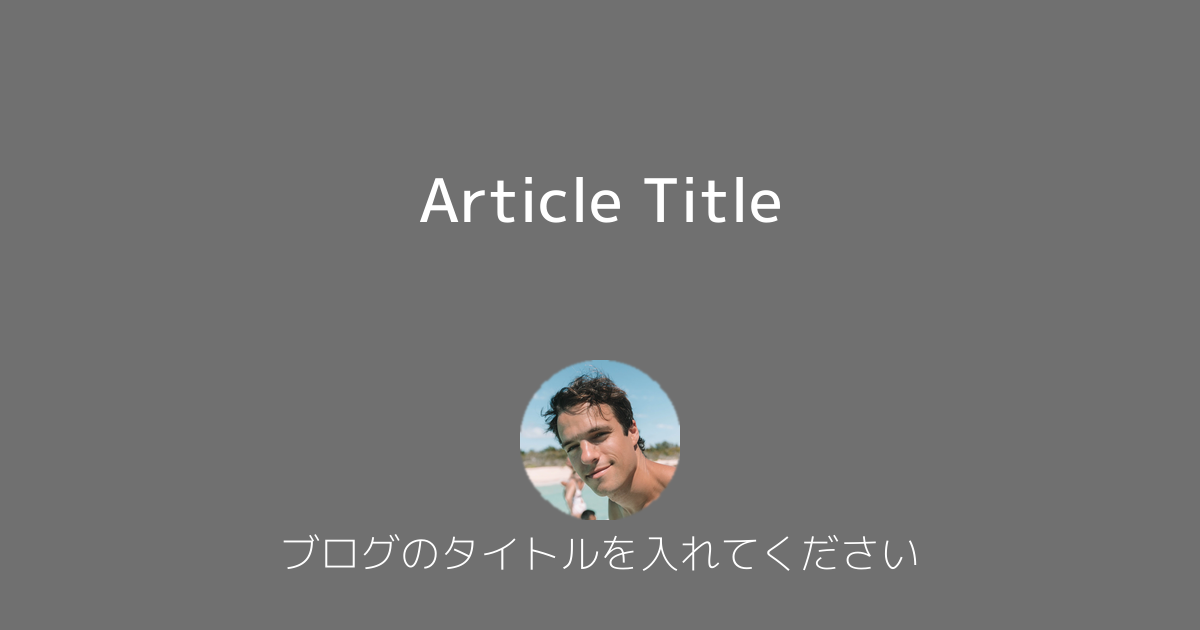
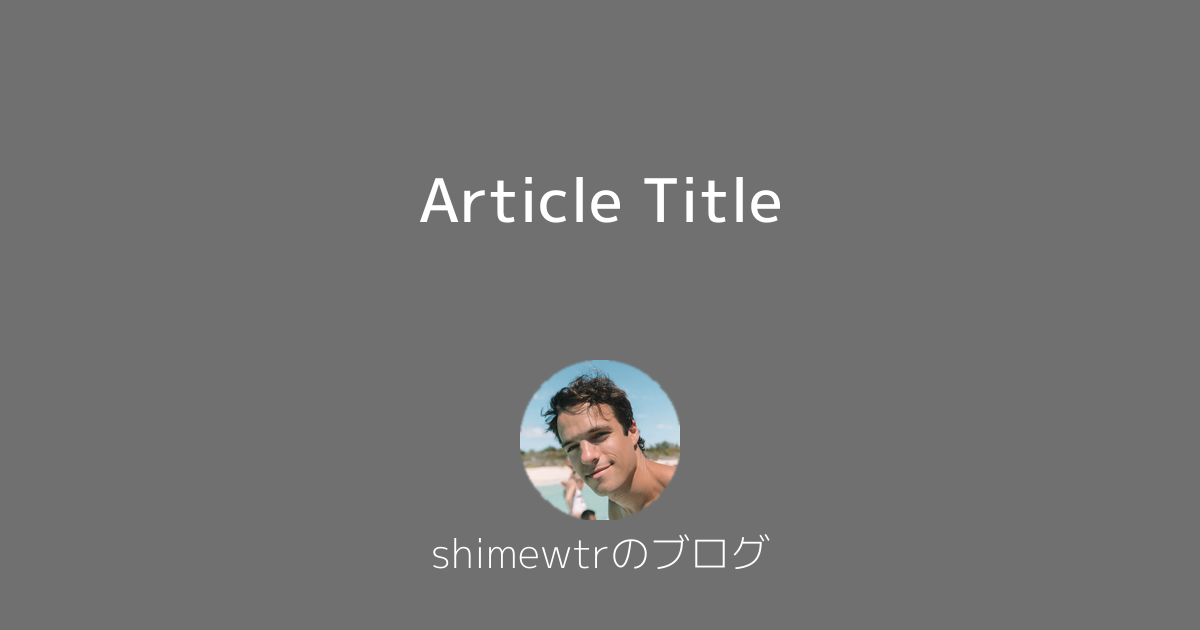
ブログタイトルを環境変数に移動

Changed region(s): [[0.2467, 0.8444, 0.7708, 0.9048]]

diff --git a/mkogp.py b/mkogp.py
@@ -3,10 +3,9 @@ import os
 import pathlib
 from PIL import Image, ImageDraw, ImageFont, ImageFilter
 
+BLOG_TITLE = os.environ['BLOG_TITLE']
 EXPORT_PATH = os.environ['EXPORT_PATH']
 POSTS_PATH = os.environ['POSTS_PATH']
-
-# def extract_meta_data(file_path):
 
 
 def extract_meta_data(file_path):
@@ -27,7 +26,7 @@ def extract_title_and_ogp_name(meta_data):
 
 
 def glob_md():
-    files = glob.glob(POSTS_PATH + '/*.md')
+    files = glob.glob(POSTS_PATH + '*.md')
     for file in files:
         meta_data = extract_meta_data(file)
         title, ogp_name = extract_title_and_ogp_name(meta_data)
@@ -46,7 +45,7 @@ def mkogp(title, ogp):
     text = title
     font_size = 60
     font_medium_path = './fonts/MPLUS1p-Medium.ttf'
-    sub_text = "ブログのタイトルを入れてください"
+    sub_text = BLOG_TITLE
     subfont_size = 40
     font_light_path = './fonts/MPLUS1p-Light.ttf'
     icon_path = './assets/icon.png'
